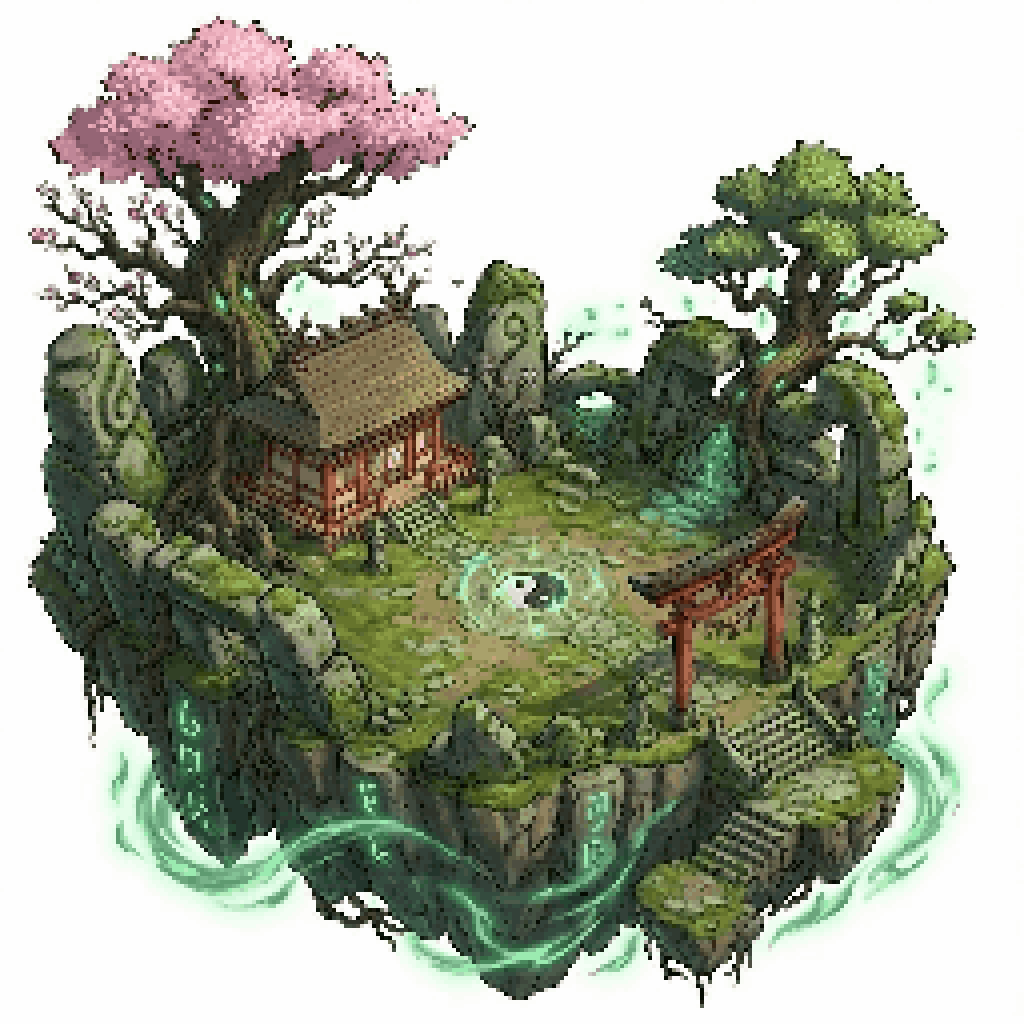
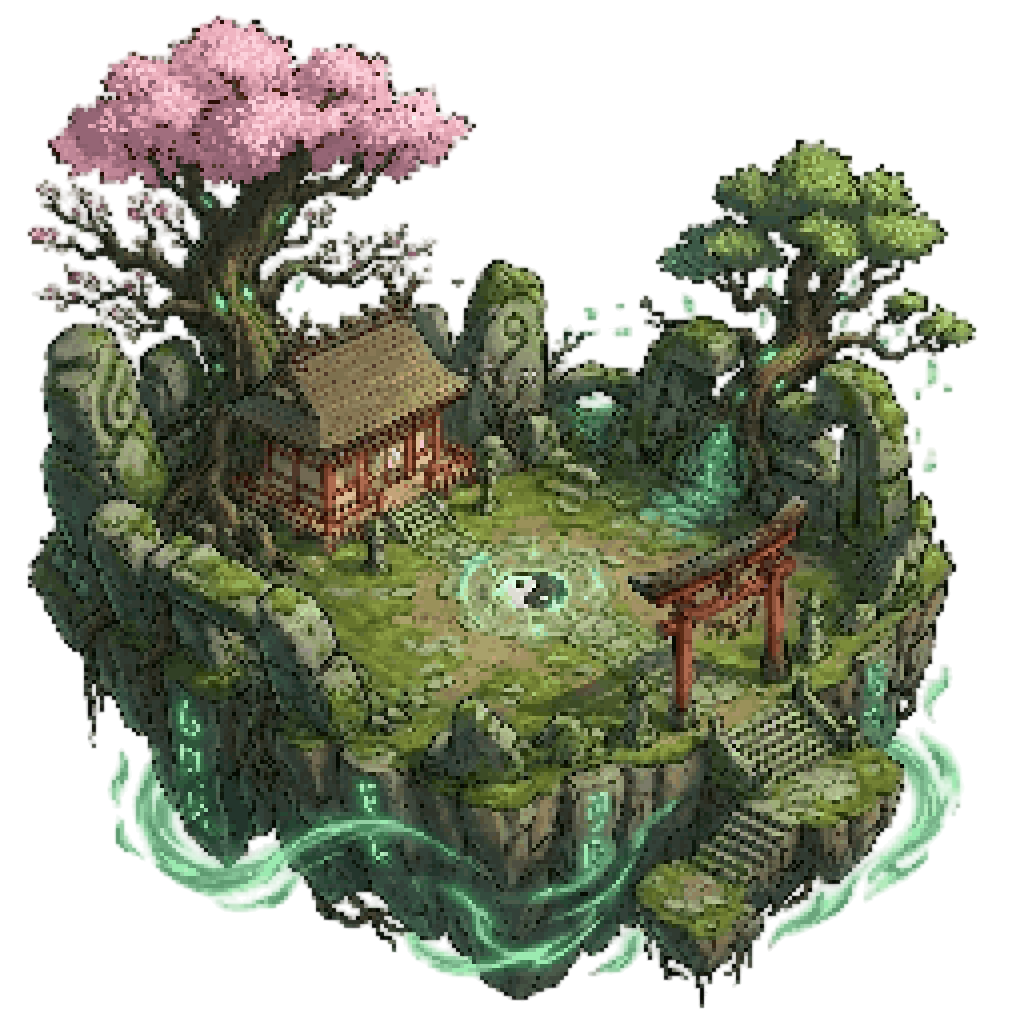
Update fortress art alignment and preload asset

diff --git a/src/scenes/BattleScene.ts b/src/scenes/BattleScene.ts
@@ -577,18 +577,22 @@ export class BattleScene extends Phaser.Scene {
         const coreX = this.fortressCoreWorld.x;
         const coreY = this.fortressCoreWorld.y;
 
-        const fortress = this.add.image(coreX, coreY, imageKey);
+        // Nudge the art upward so the fortress floor lines up with the grid
+        const verticalOffset = -320;
+        const horizontalOffset = -60; // shift left to match grid alignment
+        const fortress = this.add.image(coreX + horizontalOffset, coreY + verticalOffset, imageKey);
         
         // Position the fortress so the grid appears on top of it
-        // Origin at center horizontally, and about 40% down (top surface center)
-        fortress.setOrigin(0.5, 0.4);
+        // Origin at center horizontally, and about 30% down (top surface center)
+        fortress.setOrigin(0.5, 0.3);
         
         // Scale the fortress to match the grid size
         // For isometric diamond grid, the visual width spans gridWidth cells diagonally
         const { width: cellWidth } = this.fortressSystem.getCellDimensions();
         const gridVisualWidth = gridWidth * cellWidth;
-        const targetScale = gridVisualWidth / fortress.width * 1.3; // Scale up to encompass full grid
-        fortress.setScale(targetScale);
+        // Existing scale boosted by 1.5x to make the fortress visually larger
+        const targetScale = gridVisualWidth / fortress.width * 1.3;
+        fortress.setScale(targetScale * 1.25);
 
         // Place behind the grid graphics but in front of background
         // Use a depth that's below the grid lines but above world background

diff --git a/src/scenes/PreloadScene.ts b/src/scenes/PreloadScene.ts
@@ -79,7 +79,8 @@ export class PreloadScene extends Phaser.Scene {
         this.load.image('world_bg', 'assets/gamemap_01.png');
         
         // Fortress images
-        this.load.image('fortress_sanctum_order_01', 'assets/fortress/Fortress_Sanctum_Order_01.png');
+        // Swap default testing fortress art to the new Jade Dynasty fortress graphic
+        this.load.image('fortress_sanctum_order_01', 'assets/fortress/fortress_jade_dynasty_01.png');
         
         // Cog Dominion buildings
         this.load.image('building_cannon_tower', 'assets/buildings/cog_buildings/Building_CannonTower.png');
